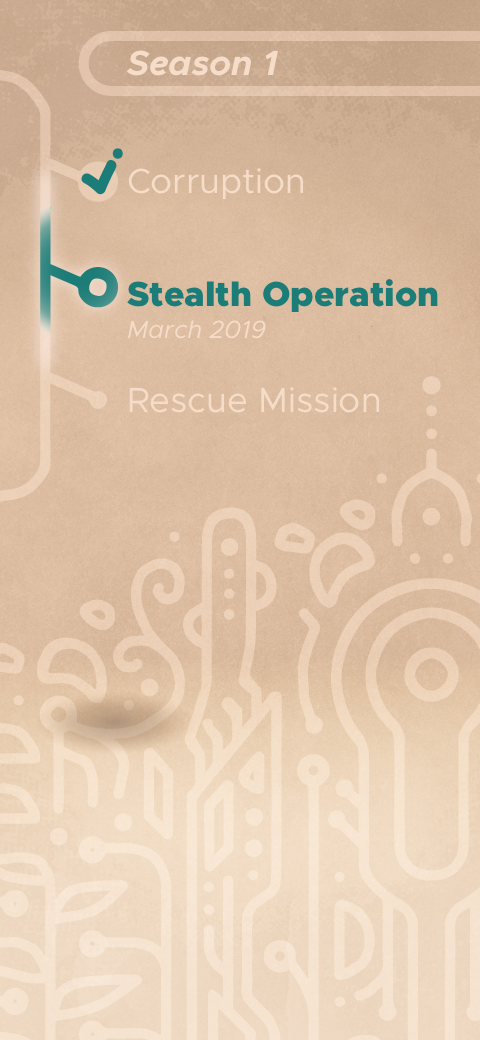
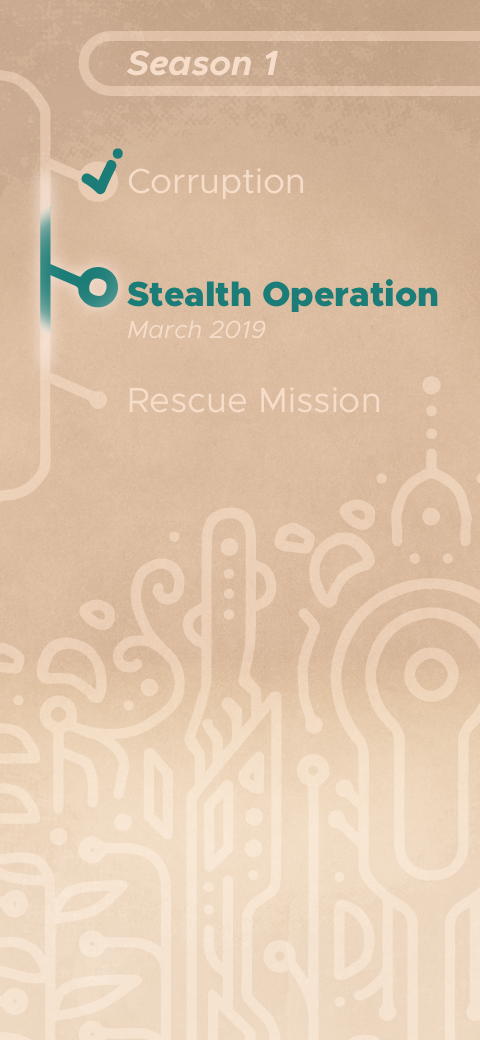
episodes: Add Badges for completed episodes
At the end of each episode a new badge will be shown in the episodes
page.

https://phabricator.endlessm.com/T25123

Changed region(s): [[0.125, 0.6769, 0.3438, 0.7385]]

diff --git a/data/gtk-style.css b/data/gtk-style.css
@@ -238,3 +238,28 @@
 .clubhouse-completed-episode-subtitle {
     margin: 0 40px 140px 40px;
 }
+
+.badge label {
+    text-shadow: 0 0.5px 2px alpha(black,0.4);
+    color: white;
+    margin-bottom: -10px;
+}
+
+.badge image {
+    -gtk-icon-shadow: 0 5px 5px alpha(black,0.4);
+}
+
+.badge {
+    border: none;
+    box-shadow: none;
+    -gtk-icon-shadow: none;
+    padding-bottom: 20px;
+}
+
+.badge:hover {
+    background-image: none;
+}
+
+.badge:hover image {
+    -gtk-icon-shadow: 0 10px 10px alpha(black,0.4);
+}

diff --git a/eosclubhouse/clubhouse.py b/eosclubhouse/clubhouse.py
@@ -33,6 +33,8 @@ from eosclubhouse.utils import Performance
 from eosclubhouse.animation import Animation, AnimationImage, AnimationSystem, Animator, \
     get_character_animation_dirs
 
+from eosclubhouse.episodes import BadgeButton
+
 
 CLUBHOUSE_NAME = 'com.endlessm.Clubhouse'
 CLUBHOUSE_PATH = '/com/endlessm/Clubhouse'
@@ -785,6 +787,8 @@ class EpisodesPage(Gtk.EventBox):
     def __init__(self, app_window):
         super().__init__(visible=True)
 
+        self._episodes_db = utils.EpisodesDB()
+
         self._app_window = app_window
         self._current_page = None
         self._setup_ui()
@@ -797,34 +801,46 @@ class EpisodesPage(Gtk.EventBox):
         builder = Gtk.Builder()
         builder.add_from_resource('/com/endlessm/Clubhouse/episodes-page.ui')
 
-        self._labels_box = builder.get_object('episode_labels_box')
-        self._characters_box = builder.get_object('episode_characters_box')
+        self._badges_box = builder.get_object('badges_box')
 
-        self.add(builder.get_object('episode_overlay'))
+        self.add(self._badges_box)
 
     def _update_ui(self, new_page):
         if new_page == self._current_page:
             return
 
-        # @todo: perhaps we should always add the characters and hide/show
-        # them accordingly to the state, instead of creating/removing them
-        for child in self._characters_box.get_children():
-            self._characters_box.remove(child)
+        for child in self._badges_box.get_children():
+            self._badges_box.remove(child)
 
         if self._current_page is not None:
             self.get_style_context().remove_class(self._current_page)
         self._current_page = new_page
         self.get_style_context().add_class(self._current_page)
 
-        if new_page == self._COMPLETED:
-            self._labels_box.set_visible(True)
+        current_episode = libquest.Registry.get_current_episode()
+        episode = self._episodes_db.get_episode(current_episode['name'])
 
-            img = AnimationImage('daemon')
-            img.play('idle')
-            self._characters_box.put(img, 21, 538)
-            img.show()
-        else:
-            self._labels_box.set_visible(False)
+        # draw completed episodes
+        completed_episodes = self._episodes_db.get_previous_episodes(episode.id)
+        for completed in completed_episodes:
+            self._add_badge_button(completed,
+                                   completed.badge_x,
+                                   completed.badge_y)
+
+        if new_page == self._COMPLETED:
+            x, y = episode.badge_x, episode.badge_y
+            if not completed_episodes:
+                x = DEFAULT_WINDOW_WIDTH / 2
+            self._add_badge_button(episode, x, y)
+
+    def _add_badge_button(self, episode, x, y):
+        badge = BadgeButton(episode)
+
+        w, _h = badge.get_size()
+        x -= w / 2
+
+        self._badges_box.put(badge, x, y)
+        badge.show()
 
     def update_episode_view(self, *args, **kwargs):
         current_episode = libquest.Registry.get_current_episode()

diff --git a/eosclubhouse/utils.py b/eosclubhouse/utils.py
@@ -25,6 +25,8 @@ import itertools
 import os
 import time
 
+from collections import OrderedDict
+
 from gi.repository import GLib
 
 from eosclubhouse import config, logger
@@ -159,3 +161,71 @@ class Performance:
             return result
 
         return _report_time_func if class_._enabled else func
+
+
+class Episode:
+    def __init__(self, id_, number=1, season=None, name=None, badge_x=None, badge_y=None):
+        self.id = id_
+        self.number = number
+        self.season = season
+        self.name = name if name is not None else id_
+        self.badge_x = badge_x if badge_x is None else 240
+        self.badge_y = badge_y if badge_y is None else 540
+
+
+class EpisodesDB(_DictFromCSV):
+
+    def __init__(self):
+        super().__init__(config.EPISODES_CSV)
+
+    @classmethod
+    def load_csv(class_, csv_path):
+        contents = OrderedDict()
+
+        class_._do_load_csv(csv_path, contents)
+        class_._csv_dict = contents
+
+    @classmethod
+    def get_episode(class_, key):
+        return class_.get_dict().get(key, Episode(key))
+
+    @classmethod
+    def get_all_episodes(class_):
+        return class_.get_dict().items()
+
+    @classmethod
+    def _do_load_csv(class_, csv_path, contents):
+        with open(csv_path, 'r') as csv_file:
+            number = 0
+            prev_season = None
+            for row in csv.reader(csv_file):
+                episode_id, season, name, badge_x, badge_y = row
+                # using appearance order in the same session to number episodes
+                if season != prev_season:
+                    prev_season = season
+                    number = 0
+                number += 1
+
+                try:
+                    badge_x = int(badge_x)
+                except ValueError:
+                    badge_x = None
+
+                try:
+                    badge_y = int(badge_y)
+                except ValueError:
+                    badge_y = None
+
+                contents[episode_id] = Episode(episode_id, number, season, name, badge_x, badge_y)
+
+    @classmethod
+    def get_previous_episodes(class_, current_episode):
+        episode = class_.get_episode(current_episode)
+        return [v for k, v in class_.get_all_episodes()
+                if v.season == episode.season and v.number < episode.number]
+
+    @classmethod
+    def get_next_episodes(class_, current_episode):
+        episode = class_.get_episode(current_episode)
+        return [v for k, v in class_.get_all_episodes()
+                if v.season == episode.season and v.number > episode.number]

diff --git a/eosclubhouse/episodes.py b/eosclubhouse/episodes.py
@@ -1,0 +1,44 @@
+import os
+from gi.repository import Gtk
+
+from eosclubhouse import config
+
+
+class BadgeButton(Gtk.Button):
+    _WIDTH = 195
+    _HEIGHT = 195
+
+    def __init__(self, episode):
+        super().__init__(halign=Gtk.Align.START,
+                         relief=Gtk.ReliefStyle.NONE)
+
+        self._episode = episode
+        self._setup_ui()
+
+        style_context = self.get_style_context()
+        style_context.add_class('badge')
+
+    def _setup_ui(self):
+        badgename = '{}.png'.format(self._episode.id)
+        filename = os.path.join(config.EPISODES_DIR, 'badges', badgename)
+
+        img = Gtk.Image()
+        img.set_from_file(filename)
+        pixbuf = img.get_pixbuf()
+        if pixbuf:
+            self._HEIGHT = pixbuf.get_height()
+            self._WIDTH = pixbuf.get_width()
+
+        label = Gtk.Label(label=self._episode.name)
+        label.set_line_wrap(True)
+        label.set_size_request(self._WIDTH, -1)
+
+        vbox = Gtk.Box(orientation=Gtk.Orientation.VERTICAL, spacing=0)
+        vbox.add(label)
+        vbox.add(img)
+        vbox.show_all()
+
+        self.add(vbox)
+
+    def get_size(self):
+        return self._WIDTH, self._HEIGHT
